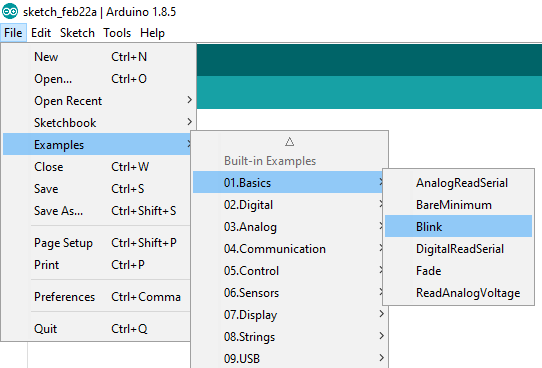
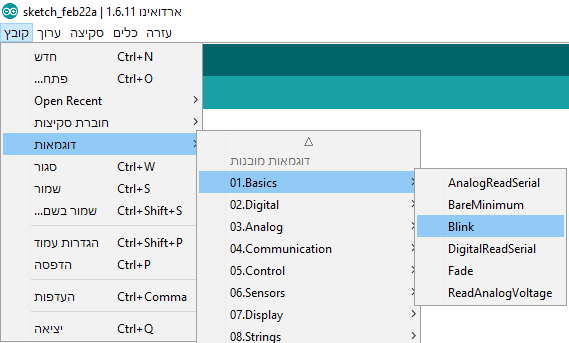
section 0 hebrew, initialize

diff --git a/Section0/אתחול.md b/Section0/אתחול.md
@@ -2,11 +2,12 @@
 1.	&#x202b;וודא שסביבת הפיתוח של ארדואינו מותקנת, אם כן דלג לשלב 4&#x202a;
 1.	&#x202b;התקן את סביבת הארדואינו מהאתר  https://www.arduino.cc/en/Main/Software בחר בwindows installer&#x202a;
 1.	&#x202b;התקן את סביבת העבודה (אשר את כל ההודעות,דרייברים וכו)&#x202a;
-1.	&#x202b;Open Tools->Board->Boards Manager ![boards manager](./pictures/boards_manager.png?raw=true)&#x202a;
-1.	&#x202b;In the search bar, type Intel Curie Boards&#x202a;
-1.	&#x202b;Click install&#x202a;
-1.	&#x202b;Connect the Genuino 101 to your computer&#x202a;
-1.	&#x202b;Select the correct port (It will probably be a different number in your computer (COM3, COM4...), don't worry) ![select port](./pictures/select_port.png?raw=true)&#x202a;
-1.	&#x202b;Open from File->Examples->01.Basics->Blink ![location of blink](./pictures/select_blink.png?raw=true)&#x202a;
-1.	&#x202b;Upload to the genuino, it will take sometime so be patient&#x202a;
-1.	&#x202b;If you see a small LED blink in one second difference, you successfully configured your genuino&#x202a;
+1.	&#x202b;פתח כלים->לוח->מנהל הלוחות ![boards manager](./pictures/boards_manager.png?raw=true)&#x202a;
+1.	&#x202b;בשורת החיפוש, כתוב Intel Curie Boards&#x202a;
+1.	&#x202b;התקן את הגרסה העדכנית ביותר&#x202a;
+1.	&#x202b;חבר את ה-genuino 101 למחשב&#x202a;
+1.	&#x202b;בחר את הפורט ואת הלוח הנכונים  (כנראה זה יהיה מספר פורט שונה (COM3,COM4...)) ![כלים->פורט->Arduino/Genuino 101](./pictures/select_port.png?raw=true) ![כלים->לוח->Arduino/Genuino 101](./pictures/select_board.png?raw=true) !&#x202a;
+1.	&#x202b;פתח את קובץ->דוגמאות->01.Basics->Blink ![אתגר, נסה לכתוב את הקוד בעצמך :)](./pictures/select_blink.png?raw=true)&#x202a;
+1.	&#x202b;העלה את הקוד, יקח זמן מה. חכה בסבלנות&#x202a;
+1.	&#x202b;אמורה להיות הודעה כזו: ![SUCCESS: Sketch will execute in about 5 seconds.])(./pictures/success.png) &#x202a;
+1.	&#x202b;לאחר 5 שניות, הלד שמחובר לרגל 13 על הלוח אמור להבהב כל שנייה, אם כן אז הצלחת לאתחל את הלוח &#x202a;
